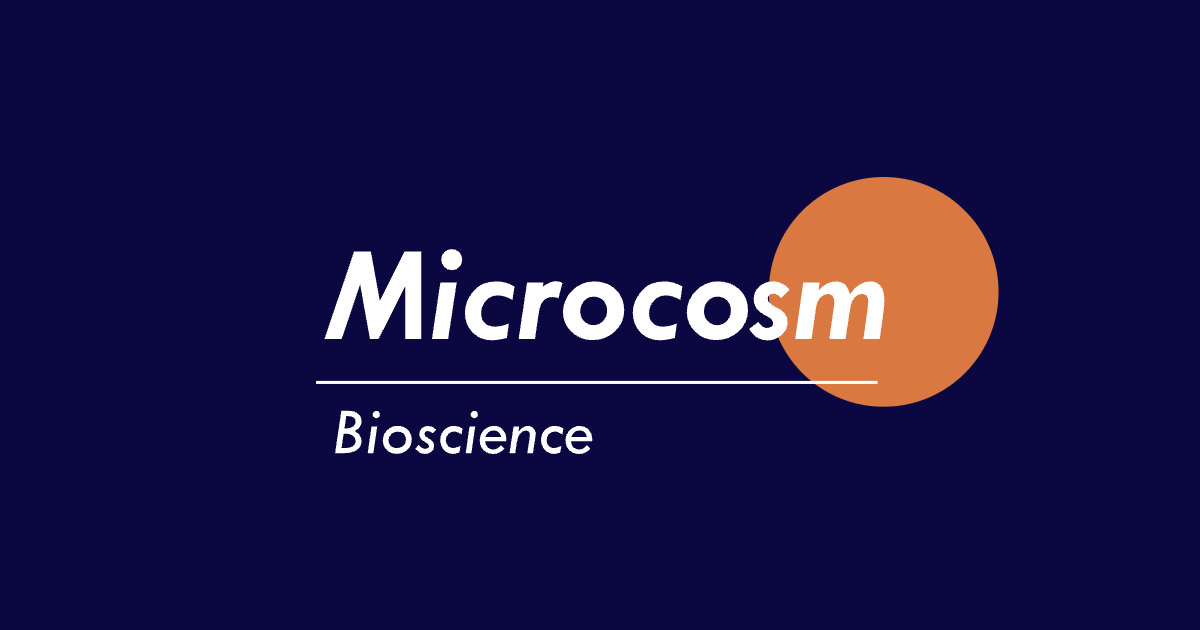
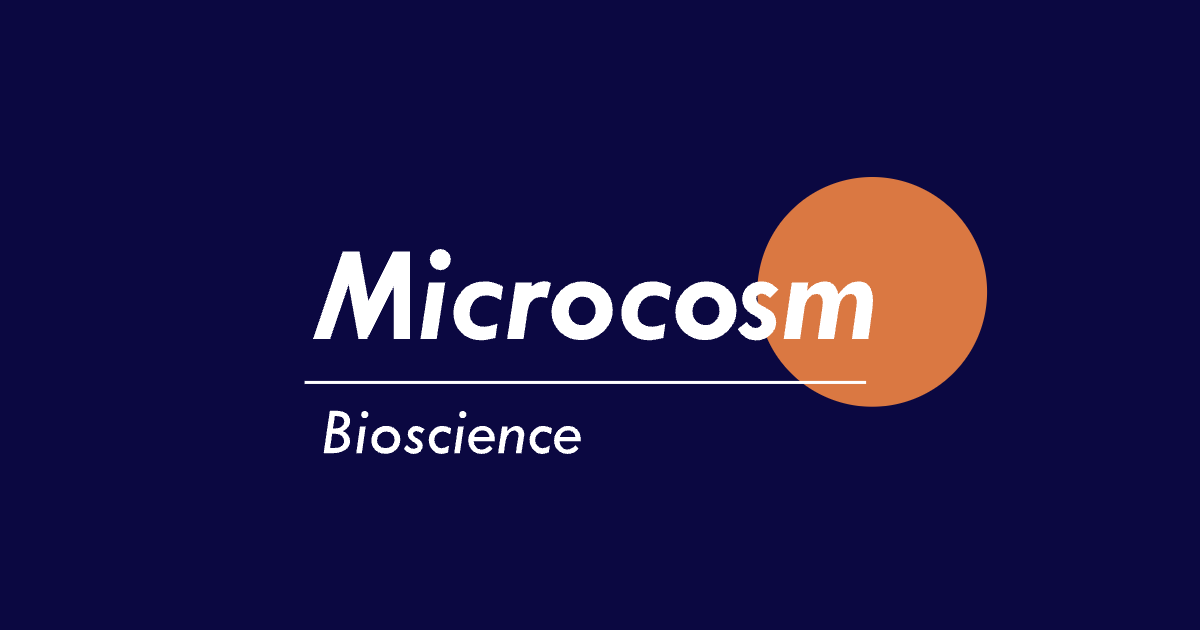
Enlarge desktop scale to match updated mockup
Logo grows to ~61% of viewport width, tagline and link to ~6% of the
wordmark width, with spacing and logo offset matched to the mockup.

diff --git a/styles.css b/styles.css
@@ -17,10 +17,11 @@
 */
 
 /* Layout scale: W is the width of the word "Microcosm". Everything else is
-   sized from it, matching the 1322px mockup where W = 736px. */
+   sized from it, matching the 1304px mockup where W = 793px. The vh term
+   keeps the whole stack (about 0.9 W tall) inside short laptop windows. */
 :root {
-  --W: clamp(260px, 56vw, 736px);
-  --text: max(16px, calc(var(--W) * 0.0335));
+  --W: clamp(260px, min(60.8vw, calc(108vh - 60px)), 880px);
+  --text: max(16px, calc(var(--W) * 0.0612));
   --font: "Avenir Next", "Avenir", "Nunito Sans", system-ui, sans-serif;
 }
 
@@ -53,30 +54,30 @@ main {
 h1 { margin: 0; font-size: inherit; line-height: 0; }
 
 /* The viewBox spans the rule's left end to the circle's right edge.
-   Shift right so the "Microcosm" + rule group sits on the page center and
-   the circle hangs off to the right. */
+   Shift right so the "Microcosm" + rule group sits just left of the page
+   center, as in the mockup, and the circle hangs off to the right. */
 .logo {
   display: block;
   width: calc(var(--W) * 897 / 736);
   height: auto;
   overflow: visible;
-  transform: translateX(8.36%);
+  transform: translateX(6.68%);
 }
 .logo .orb  { fill: var(--orb); }
 .logo .ink  { fill: var(--logo); }
 
 .tagline {
-  margin: calc(var(--W) * 0.105) 0 0;
+  margin: calc(var(--W) * 0.115) 0 0;
   max-width: 34em;
   font-size: var(--text);
-  line-height: 1.45;
+  line-height: 1.22;
 }
 
 .contact {
   display: inline-flex;
   align-items: center;
   min-height: 44px;
-  margin-top: calc(var(--W) * 0.075);
+  margin-top: calc(var(--W) * 0.079);
   padding: 0 8px;
   color: var(--link);
   font-size: var(--text);
